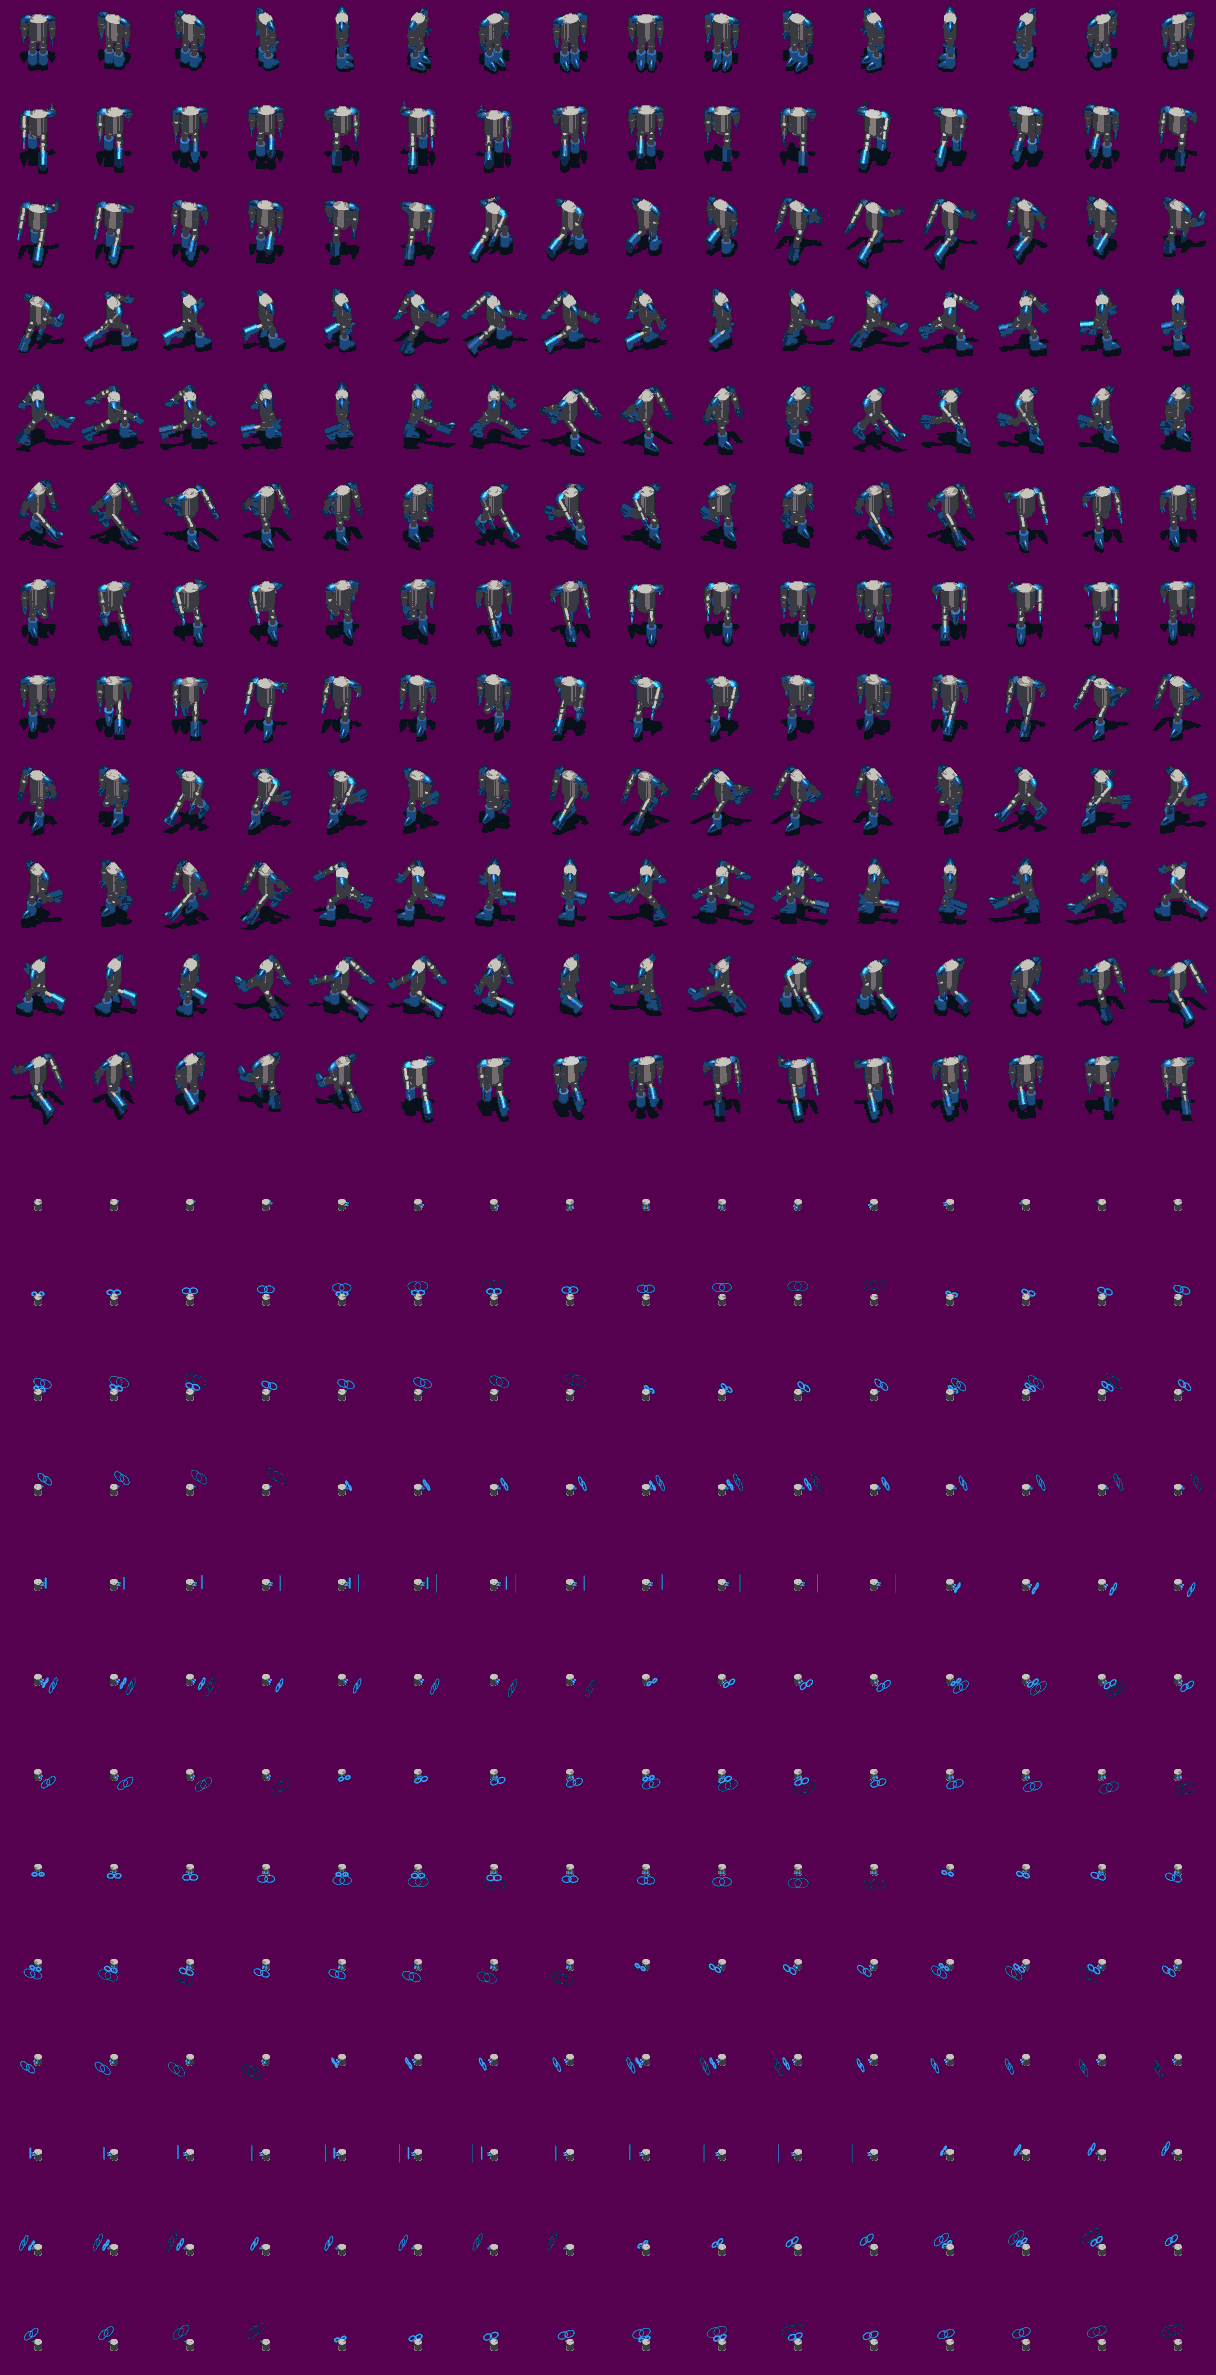
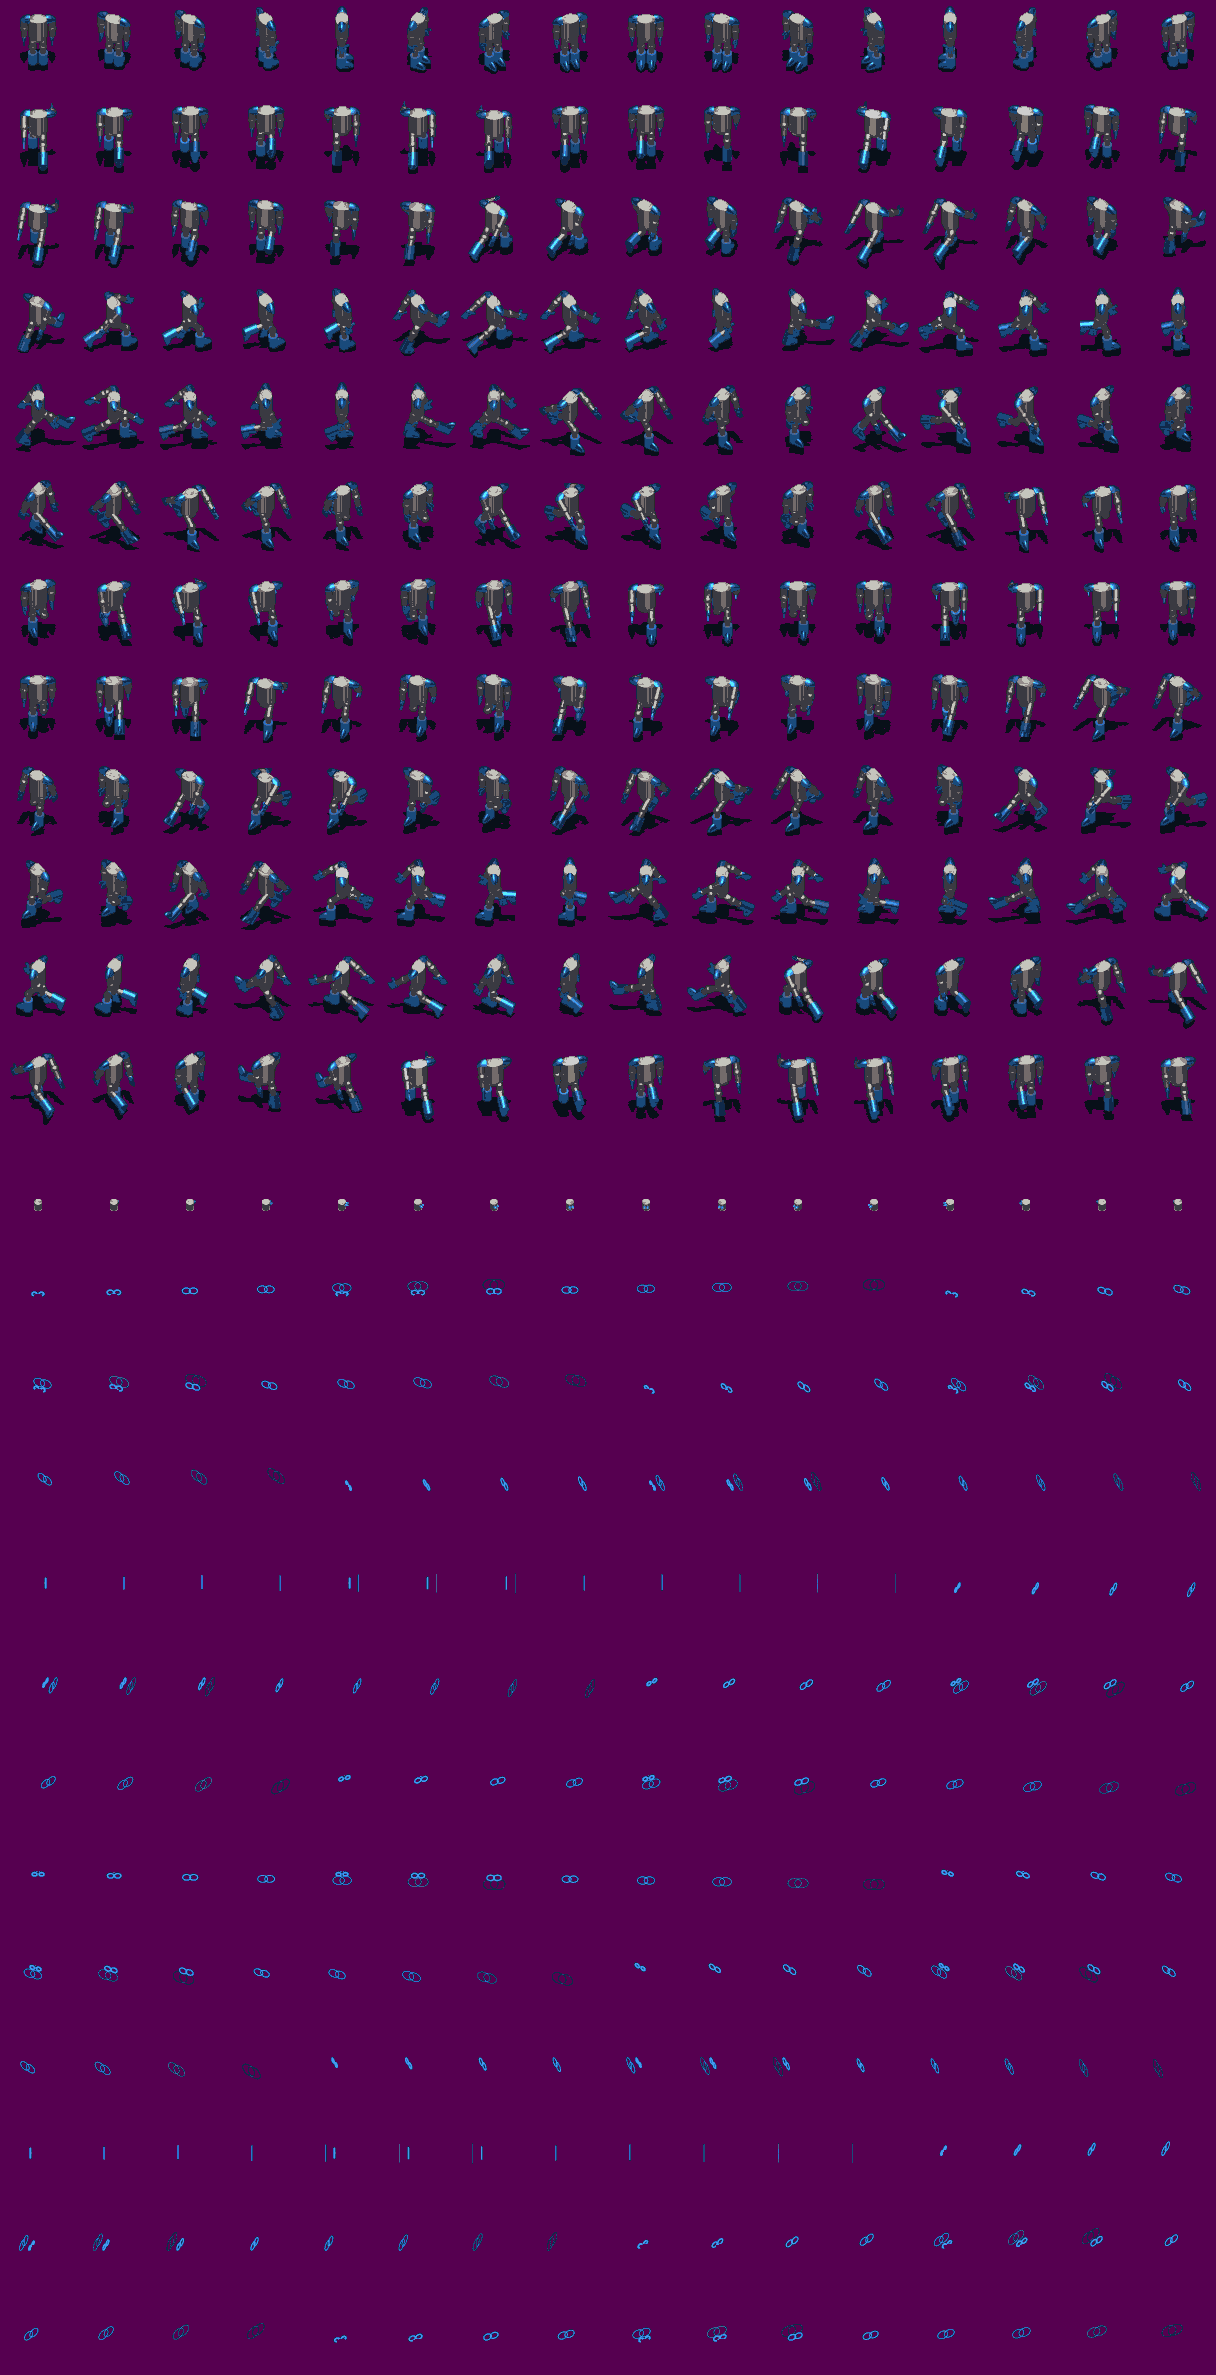
Fixed Gort's muzzle flash beam affacted by teamcolor

diff --git a/OpenRA.Mods.Kknd/Traits/Render/WithLoopedMuzzleOverlay.cs b/OpenRA.Mods.Kknd/Traits/Render/WithLoopedMuzzleOverlay.cs
@@ -1,0 +1,122 @@
+#region Copyright & License Information
+/*
+ * Copyright 2007-2021 The KKnD Developers (see AUTHORS)
+ * This file is part of KKnD, which is free software. It is made
+ * available to you under the terms of the GNU General Public License
+ * as published by the Free Software Foundation, either version 3 of
+ * the License, or (at your option) any later version. For more
+ * information, see COPYING.
+ */
+#endregion
+
+using System;
+using System.Collections.Generic;
+using System.Linq;
+using OpenRA.Graphics;
+using OpenRA.Mods.Common.Traits;
+using OpenRA.Mods.Common.Traits.Render;
+using OpenRA.Primitives;
+using OpenRA.Traits;
+
+namespace OpenRA.Mods.Kknd.Traits.Render
+{
+	[Desc("Renders the MuzzleSequence from the Armament trait.")]
+	class WithLoopedMuzzleOverlayInfo : ConditionalTraitInfo, Requires<RenderSpritesInfo>, Requires<AttackBaseInfo>, Requires<ArmamentInfo>
+	{
+		[Desc("Ignore the weapon position, and always draw relative to the center of the actor")]
+		public readonly bool IgnoreOffset = false;
+
+		public override object Create(ActorInitializer init) { return new WithLoopedMuzzleOverlay(init.Self, this); }
+	}
+
+	class WithLoopedMuzzleOverlay : ConditionalTrait<WithLoopedMuzzleOverlayInfo>, INotifyAttack, IRender, ITick
+	{
+		readonly Dictionary<Barrel, int> visible = new Dictionary<Barrel, int>();
+		readonly Dictionary<Barrel, AnimationWithOffset> anims = new Dictionary<Barrel, AnimationWithOffset>();
+		readonly Func<WAngle> getFacing;
+		readonly Armament[] armaments;
+
+		public WithLoopedMuzzleOverlay(Actor self, WithLoopedMuzzleOverlayInfo info)
+			: base(info)
+		{
+			var render = self.Trait<RenderSprites>();
+			var facing = self.TraitOrDefault<IFacing>();
+
+			armaments = self.TraitsImplementing<Armament>()
+				.Where(arm => arm.Info.MuzzleSequence != null)
+				.ToArray();
+
+			foreach (var arm in armaments)
+			{
+				foreach (var b in arm.Barrels)
+				{
+					var barrel = b;
+					var turreted = self.TraitsImplementing<Turreted>()
+						.FirstOrDefault(t => t.Name == arm.Info.Turret);
+
+					if (turreted != null)
+						getFacing = () => turreted.WorldOrientation.Yaw;
+					else if (facing != null)
+						getFacing = () => facing.Facing;
+					else
+						getFacing = () => WAngle.Zero;
+
+					var muzzleFlash = new Animation(self.World, render.GetImage(self), getFacing);
+					visible.Add(barrel, 0);
+					anims.Add(barrel,
+						new AnimationWithOffset(muzzleFlash,
+							() => info.IgnoreOffset ? WVec.Zero : arm.MuzzleOffset(self, barrel),
+							() => IsTraitDisabled || visible[barrel] == 0,
+							p => RenderUtils.ZOffsetFromCenter(self, p, 2)));
+				}
+			}
+		}
+
+		void INotifyAttack.Attacking(Actor self, in Target target, Armament a, Barrel barrel)
+		{
+			if (a == null || barrel == null || !armaments.Contains(a))
+				return;
+
+			var sequence = a.Info.MuzzleSequence;
+
+			if (visible[barrel] == 0)
+				anims[barrel].Animation.PlayThen(sequence, () => visible[barrel] = 0);
+
+			visible[barrel] = 2;
+		}
+
+		void INotifyAttack.PreparingAttack(Actor self, in Target target, Armament a, Barrel barrel) { }
+
+		IEnumerable<IRenderable> IRender.Render(Actor self, WorldRenderer wr)
+		{
+			foreach (var arm in armaments)
+			{
+				var palette = wr.Palette(arm.Info.MuzzlePalette);
+				foreach (var b in arm.Barrels)
+				{
+					var anim = anims[b];
+					if (anim.DisableFunc != null && anim.DisableFunc())
+						continue;
+
+					foreach (var r in anim.Render(self, wr, palette))
+						yield return r;
+				}
+			}
+		}
+
+		IEnumerable<Rectangle> IRender.ScreenBounds(Actor self, WorldRenderer wr)
+		{
+			// Muzzle flashes don't contribute to actor bounds
+			yield break;
+		}
+
+		void ITick.Tick(Actor self)
+		{
+			foreach (var barrel in visible.Keys)
+				visible[barrel] -= visible[barrel] > 1 ? 1 : 0;
+
+			foreach (var a in anims.Values)
+				a.Animation.Tick();
+		}
+	}
+}
